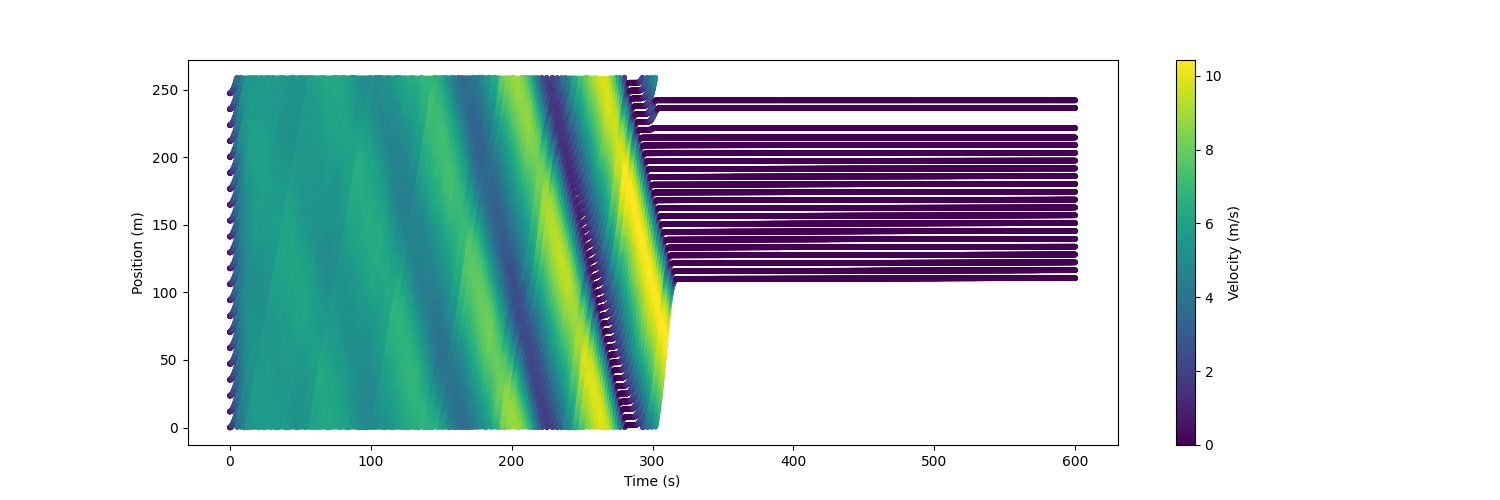
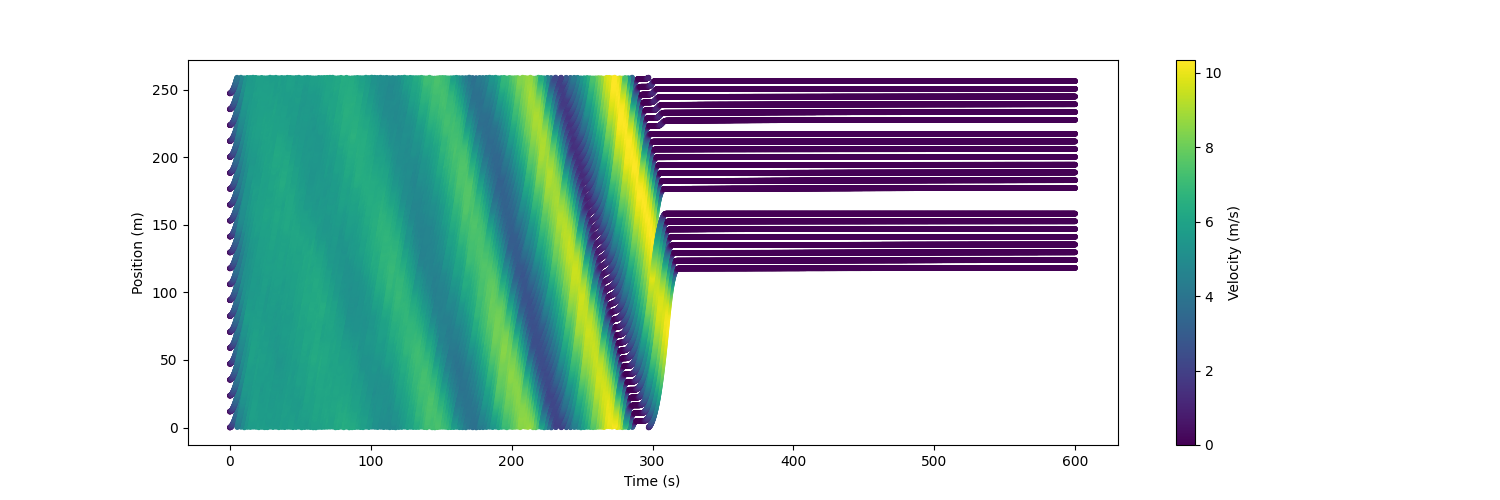
reward change

Changed region(s): [[0.276, 0.15, 0.736, 0.87], [0.2453, 0.39, 0.276, 0.51]]

diff --git a/main.py b/main.py
@@ -31,7 +31,7 @@ def main():
 
     elif args.type == "multiagent_qmix_eval":
         scripts.multiagent_train_ppo.evaluate_qmix(
-            "/home/vamsi/Documents/GitHub/RingRoad-RL/Models/VDN/QMIX/QMIX_grouped_ringroad_33712_00000_0_2022-07-16_22-26-13/checkpoint_000103/checkpoint-103", mixer)
+            "/home/vamsi/Documents/GitHub/RingRoad-RL/Models/VDN/QMIX/QMIX_grouped_ringroad_24c9e_00000_0_2022-07-17_12-23-20/checkpoint_000104/checkpoint-104", mixer)
     elif args.type == "eval_idm":
         scripts.evaluate_idm.evaluate()
 

diff --git a/Ring_Road/envs/multiagent_ringroad.py b/Ring_Road/envs/multiagent_ringroad.py
@@ -179,8 +179,7 @@ class MultiAgentRingRoad(MultiAgentEnv):
         rew = {ag_id: reward for ag_id in self.agents.keys()}
         for ag_id, agent in self.agents.items():
             if agent.v == 0:
-                rew = {ag_id: -5 for ag_id in self.agents.keys()}
-                break
+                rew[ag_id] -= 2
 
         return rew
 
